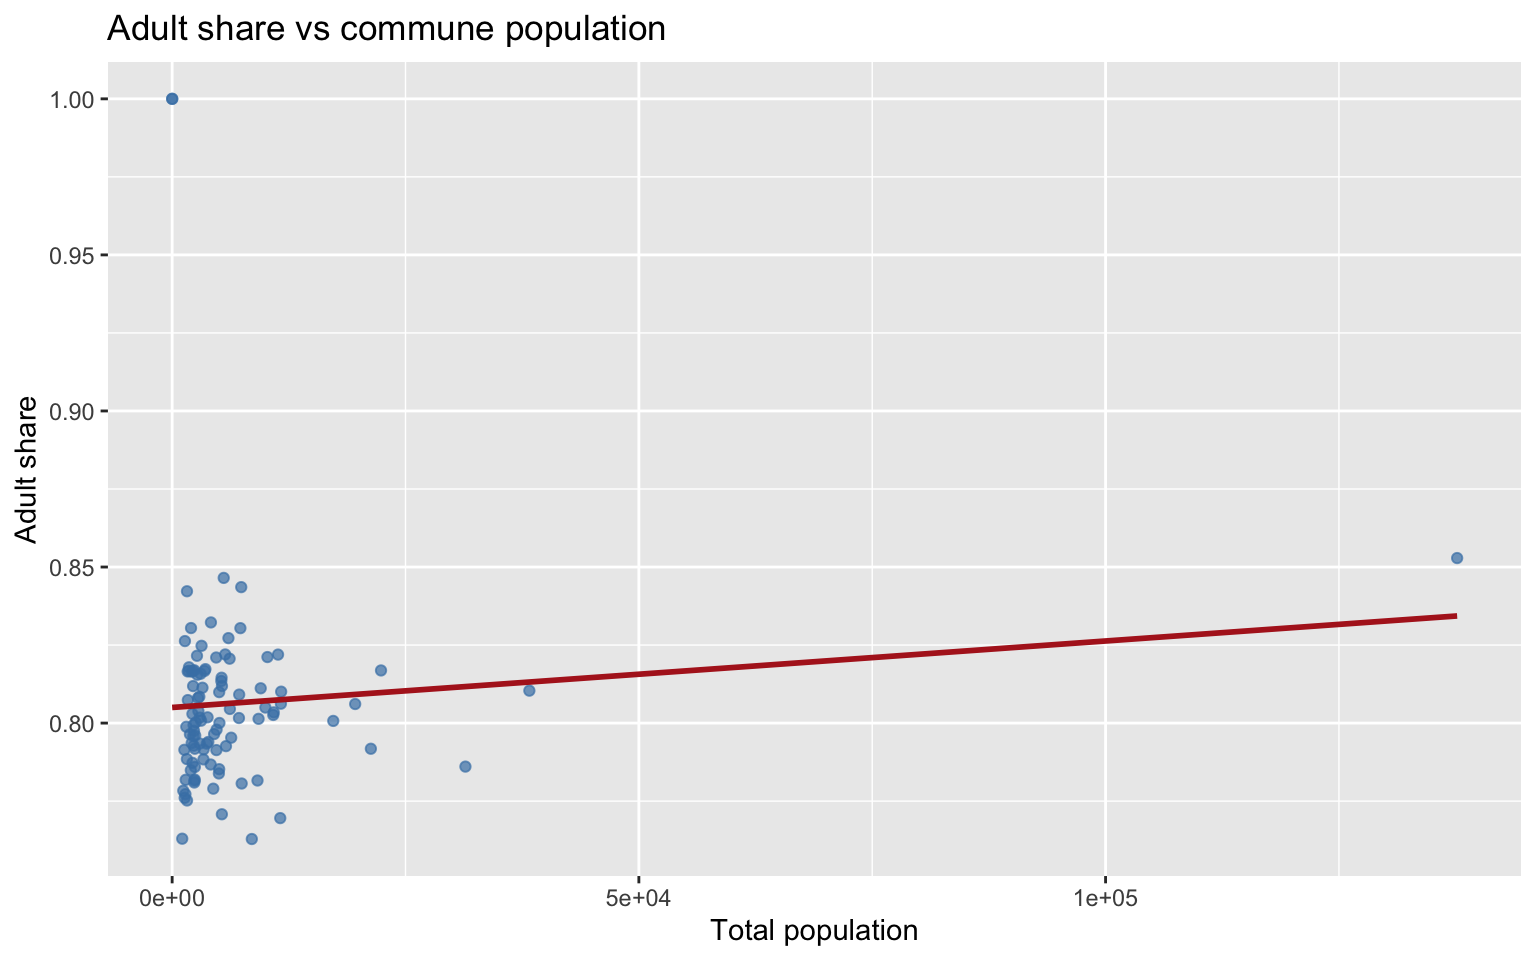
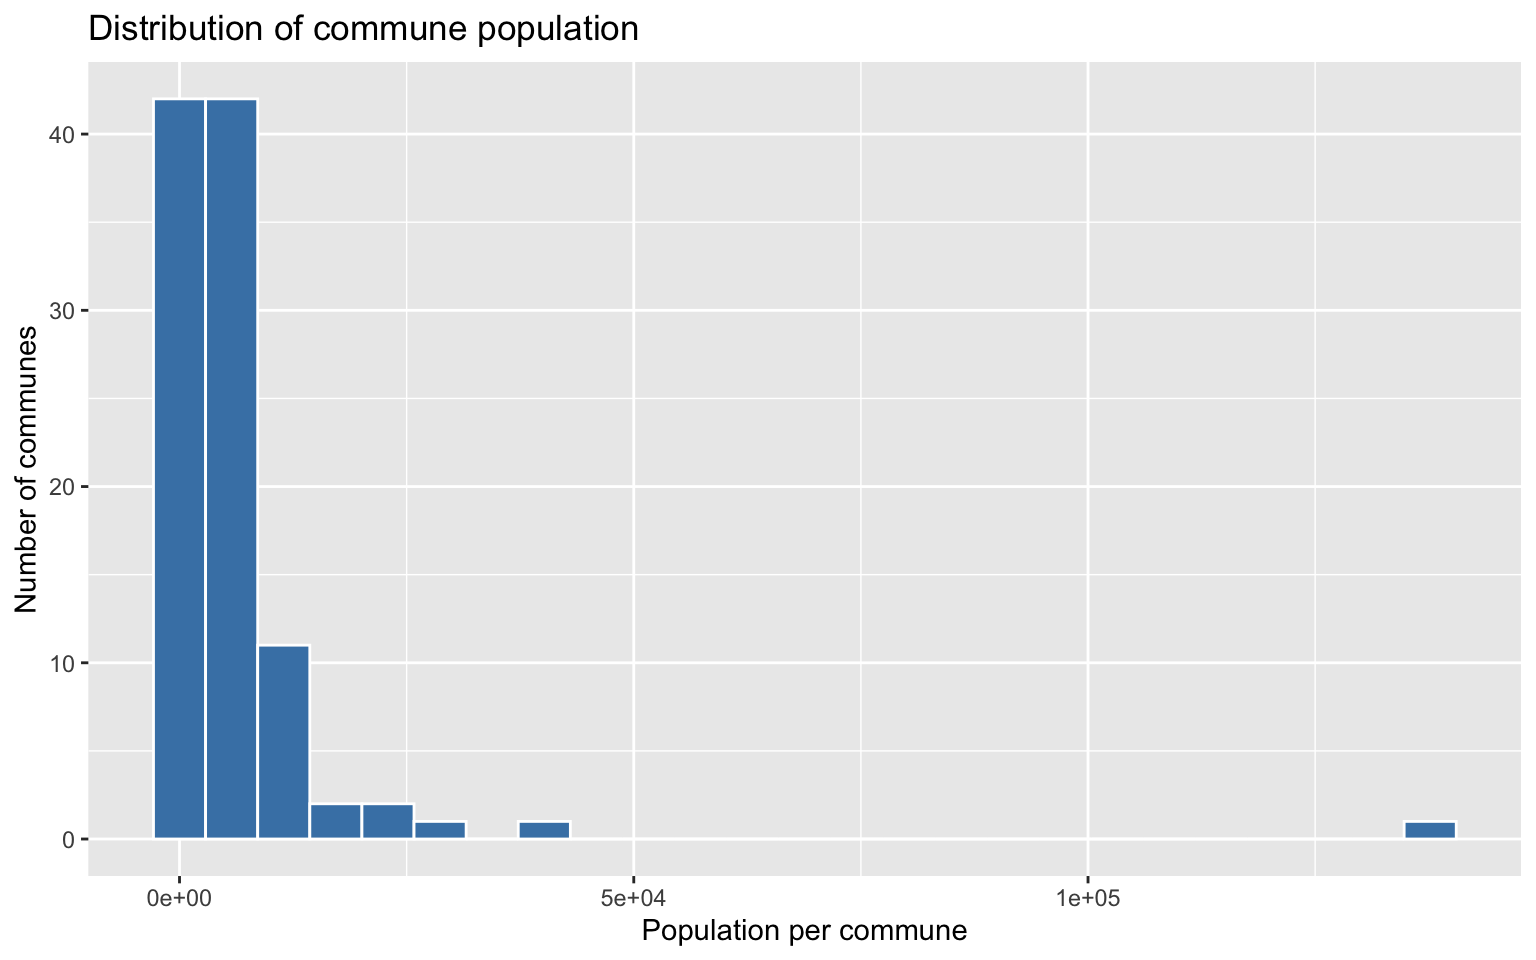
update

diff --git a/docs/sessions/session-02-solutions.html b/docs/sessions/session-02-solutions.html
@@ -173,6 +173,7 @@ pre > code.sourceCode > span > a:first-child::before { text-decoration: underlin
   <li><a href="#exercise-3" id="toc-exercise-3" class="nav-link" data-scroll-target="#exercise-3"><span class="header-section-number">1.3</span> Exercise 3</a></li>
   <li><a href="#exercise-4" id="toc-exercise-4" class="nav-link" data-scroll-target="#exercise-4"><span class="header-section-number">1.4</span> Exercise 4</a></li>
   <li><a href="#exercise-5" id="toc-exercise-5" class="nav-link" data-scroll-target="#exercise-5"><span class="header-section-number">1.5</span> Exercise 5</a></li>
+  <li><a href="#exercise-6" id="toc-exercise-6" class="nav-link" data-scroll-target="#exercise-6"><span class="header-section-number">1.6</span> Exercise 6</a></li>
   </ul></li>
   <li><a href="#gutenberg-tidytext-exercises-solutions" id="toc-gutenberg-tidytext-exercises-solutions" class="nav-link" data-scroll-target="#gutenberg-tidytext-exercises-solutions"><span class="header-section-number">2</span> Gutenberg + tidytext exercises — solutions</a>
   <ul class="collapse">
@@ -189,7 +190,7 @@ pre > code.sourceCode > span > a:first-child::before { text-decoration: underlin
   <li><a href="#exercise-3-2" id="toc-exercise-3-2" class="nav-link" data-scroll-target="#exercise-3-2"><span class="header-section-number">3.3</span> Exercise 3</a></li>
   <li><a href="#exercise-4-2" id="toc-exercise-4-2" class="nav-link" data-scroll-target="#exercise-4-2"><span class="header-section-number">3.4</span> Exercise 4</a></li>
   <li><a href="#exercise-5-2" id="toc-exercise-5-2" class="nav-link" data-scroll-target="#exercise-5-2"><span class="header-section-number">3.5</span> Exercise 5</a></li>
-  <li><a href="#exercise-6" id="toc-exercise-6" class="nav-link" data-scroll-target="#exercise-6"><span class="header-section-number">3.6</span> Exercise 6</a></li>
+  <li><a href="#exercise-6-1" id="toc-exercise-6-1" class="nav-link" data-scroll-target="#exercise-6-1"><span class="header-section-number">3.6</span> Exercise 6</a></li>
   </ul></li>
   </ul>
 </nav>
@@ -390,52 +391,56 @@ pre > code.sourceCode > span > a:first-child::before { text-decoration: underlin
 </section>
 <section id="exercise-4" class="level2" data-number="1.4">
 <h2 data-number="1.4" class="anchored" data-anchor-id="exercise-4"><span class="header-section-number">1.4</span> Exercise 4</h2>
-<p><strong>Task:</strong> Compute z-scores of <code>total_population</code> and list communes with <code>z_population &gt; 2</code>.</p>
+<p><strong>Task:</strong> Add <code>female_share</code> and report the top 10 communes.</p>
 <div class="cell">
-<div class="code-copy-outer-scaffold"><div class="sourceCode cell-code" id="cb19"><pre class="sourceCode r code-with-copy"><code class="sourceCode r"><span id="cb19-1"><a href="#cb19-1" aria-hidden="true" tabindex="-1"></a>pop_z <span class="ot">&lt;-</span> pop <span class="sc">|&gt;</span></span>
+<div class="code-copy-outer-scaffold"><div class="sourceCode cell-code" id="cb19"><pre class="sourceCode r code-with-copy"><code class="sourceCode r"><span id="cb19-1"><a href="#cb19-1" aria-hidden="true" tabindex="-1"></a>female_share_tbl <span class="ot">&lt;-</span> pop <span class="sc">|&gt;</span></span>
 <span id="cb19-2"><a href="#cb19-2" aria-hidden="true" tabindex="-1"></a>  <span class="fu">mutate</span>(</span>
 <span id="cb19-3"><a href="#cb19-3" aria-hidden="true" tabindex="-1"></a>    <span class="at">total_population =</span> FEMMES_MINEURES <span class="sc">+</span> HOMMES_MINEURS <span class="sc">+</span> FEMMES_MAJEURES <span class="sc">+</span> HOMMES_MAJEURS,</span>
-<span id="cb19-4"><a href="#cb19-4" aria-hidden="true" tabindex="-1"></a>    <span class="at">z_population =</span> <span class="fu">as.numeric</span>(<span class="fu">scale</span>(total_population))</span>
-<span id="cb19-5"><a href="#cb19-5" aria-hidden="true" tabindex="-1"></a>  )</span>
-<span id="cb19-6"><a href="#cb19-6" aria-hidden="true" tabindex="-1"></a></span>
-<span id="cb19-7"><a href="#cb19-7" aria-hidden="true" tabindex="-1"></a>pop_z <span class="sc">|&gt;</span></span>
-<span id="cb19-8"><a href="#cb19-8" aria-hidden="true" tabindex="-1"></a>  <span class="fu">filter</span>(z_population <span class="sc">&gt;</span> <span class="dv">2</span>) <span class="sc">|&gt;</span></span>
-<span id="cb19-9"><a href="#cb19-9" aria-hidden="true" tabindex="-1"></a>  <span class="fu">arrange</span>(<span class="fu">desc</span>(z_population)) <span class="sc">|&gt;</span></span>
-<span id="cb19-10"><a href="#cb19-10" aria-hidden="true" tabindex="-1"></a>  <span class="fu">select</span>(COMMUNE_NOM, total_population, z_population)</span></code></pre></div><button title="Copy to Clipboard" class="code-copy-button"><i class="bi"></i></button></div>
+<span id="cb19-4"><a href="#cb19-4" aria-hidden="true" tabindex="-1"></a>    <span class="at">female_total =</span> FEMMES_MINEURES <span class="sc">+</span> FEMMES_MAJEURES,</span>
+<span id="cb19-5"><a href="#cb19-5" aria-hidden="true" tabindex="-1"></a>    <span class="at">female_share =</span> female_total <span class="sc">/</span> total_population</span>
+<span id="cb19-6"><a href="#cb19-6" aria-hidden="true" tabindex="-1"></a>  )</span>
+<span id="cb19-7"><a href="#cb19-7" aria-hidden="true" tabindex="-1"></a></span>
+<span id="cb19-8"><a href="#cb19-8" aria-hidden="true" tabindex="-1"></a>female_share_tbl <span class="sc">|&gt;</span></span>
+<span id="cb19-9"><a href="#cb19-9" aria-hidden="true" tabindex="-1"></a>  <span class="fu">arrange</span>(<span class="fu">desc</span>(female_share)) <span class="sc">|&gt;</span></span>
+<span id="cb19-10"><a href="#cb19-10" aria-hidden="true" tabindex="-1"></a>  <span class="fu">select</span>(COMMUNE_NOM, total_population, female_share) <span class="sc">|&gt;</span></span>
+<span id="cb19-11"><a href="#cb19-11" aria-hidden="true" tabindex="-1"></a>  <span class="fu">slice_head</span>(<span class="at">n =</span> <span class="dv">10</span>)</span></code></pre></div><button title="Copy to Clipboard" class="code-copy-button"><i class="bi"></i></button></div>
 <div class="cell-output cell-output-stdout">
-<pre><code># A tibble: 2 × 3
-  COMMUNE_NOM      total_population z_population
-  &lt;chr&gt;                       &lt;dbl&gt;        &lt;dbl&gt;
-1 Luxembourg                 137663         9.11
-2 Esch-sur-Alzette            38269         2.19</code></pre>
+<pre><code># A tibble: 10 × 3
+   COMMUNE_NOM       total_population female_share
+   &lt;chr&gt;                        &lt;dbl&gt;        &lt;dbl&gt;
+ 1 Saeul                         1080        0.519
+ 2 Lenningen                     2114        0.518
+ 3 Mondorf-les-Bains             5525        0.516
+ 4 Steinsel                      6185        0.514
+ 5 Strassen                     10831        0.514
+ 6 Niederanven                   7158        0.513
+ 7 Nommern                       1516        0.513
+ 8 Redange/Attert                3150        0.513
+ 9 Reckange-sur-Mess             2956        0.513
+10 Walferdange                   9258        0.512</code></pre>
 </div>
 </div>
 <p>Why this works:</p>
 <ul>
-<li><code>scale()</code> standardizes values to mean 0 and standard deviation 1.</li>
-<li><code>z_population &gt; 2</code> identifies unusually large communes relative to the full distribution.</li>
+<li><code>female_share</code> is the share of female population in each commune.</li>
+<li>Sorting descending and slicing head returns the requested top 10 rows.</li>
 </ul>
 </section>
 <section id="exercise-5" class="level2" data-number="1.5">
 <h2 data-number="1.5" class="anchored" data-anchor-id="exercise-5"><span class="header-section-number">1.5</span> Exercise 5</h2>
-<p><strong>Task:</strong> Plot <code>total_population</code> vs <code>adult_share</code> and describe the pattern.</p>
+<p><strong>Task:</strong> Create a histogram of <code>total_population</code> and describe the shape.</p>
 <div class="cell">
 <div class="code-copy-outer-scaffold"><div class="sourceCode cell-code" id="cb21"><pre class="sourceCode r code-with-copy"><code class="sourceCode r"><span id="cb21-1"><a href="#cb21-1" aria-hidden="true" tabindex="-1"></a>pop <span class="sc">|&gt;</span></span>
 <span id="cb21-2"><a href="#cb21-2" aria-hidden="true" tabindex="-1"></a>  <span class="fu">mutate</span>(</span>
-<span id="cb21-3"><a href="#cb21-3" aria-hidden="true" tabindex="-1"></a>    <span class="at">total_population =</span> FEMMES_MINEURES <span class="sc">+</span> HOMMES_MINEURS <span class="sc">+</span> FEMMES_MAJEURES <span class="sc">+</span> HOMMES_MAJEURS,</span>
-<span id="cb21-4"><a href="#cb21-4" aria-hidden="true" tabindex="-1"></a>    <span class="at">adult_share =</span> (FEMMES_MAJEURES <span class="sc">+</span> HOMMES_MAJEURS) <span class="sc">/</span> total_population</span>
-<span id="cb21-5"><a href="#cb21-5" aria-hidden="true" tabindex="-1"></a>  ) <span class="sc">|&gt;</span></span>
-<span id="cb21-6"><a href="#cb21-6" aria-hidden="true" tabindex="-1"></a>  <span class="fu">ggplot</span>(<span class="fu">aes</span>(<span class="at">x =</span> total_population, <span class="at">y =</span> adult_share)) <span class="sc">+</span></span>
-<span id="cb21-7"><a href="#cb21-7" aria-hidden="true" tabindex="-1"></a>  <span class="fu">geom_point</span>(<span class="at">alpha =</span> <span class="fl">0.7</span>, <span class="at">color =</span> <span class="st">"steelblue"</span>) <span class="sc">+</span></span>
-<span id="cb21-8"><a href="#cb21-8" aria-hidden="true" tabindex="-1"></a>  <span class="fu">geom_smooth</span>(<span class="at">method =</span> <span class="st">"lm"</span>, <span class="at">se =</span> <span class="cn">FALSE</span>, <span class="at">color =</span> <span class="st">"firebrick"</span>) <span class="sc">+</span></span>
-<span id="cb21-9"><a href="#cb21-9" aria-hidden="true" tabindex="-1"></a>  <span class="fu">labs</span>(</span>
-<span id="cb21-10"><a href="#cb21-10" aria-hidden="true" tabindex="-1"></a>    <span class="at">title =</span> <span class="st">"Adult share vs commune population"</span>,</span>
-<span id="cb21-11"><a href="#cb21-11" aria-hidden="true" tabindex="-1"></a>    <span class="at">x =</span> <span class="st">"Total population"</span>,</span>
-<span id="cb21-12"><a href="#cb21-12" aria-hidden="true" tabindex="-1"></a>    <span class="at">y =</span> <span class="st">"Adult share"</span></span>
-<span id="cb21-13"><a href="#cb21-13" aria-hidden="true" tabindex="-1"></a>  )</span></code></pre></div><button title="Copy to Clipboard" class="code-copy-button"><i class="bi"></i></button></div>
-<div class="cell-output cell-output-stderr">
-<pre><code>`geom_smooth()` using formula = 'y ~ x'</code></pre>
-</div>
+<span id="cb21-3"><a href="#cb21-3" aria-hidden="true" tabindex="-1"></a>    <span class="at">total_population =</span> FEMMES_MINEURES <span class="sc">+</span> HOMMES_MINEURS <span class="sc">+</span> FEMMES_MAJEURES <span class="sc">+</span> HOMMES_MAJEURS</span>
+<span id="cb21-4"><a href="#cb21-4" aria-hidden="true" tabindex="-1"></a>  ) <span class="sc">|&gt;</span></span>
+<span id="cb21-5"><a href="#cb21-5" aria-hidden="true" tabindex="-1"></a>  <span class="fu">ggplot</span>(<span class="fu">aes</span>(<span class="at">x =</span> total_population)) <span class="sc">+</span></span>
+<span id="cb21-6"><a href="#cb21-6" aria-hidden="true" tabindex="-1"></a>  <span class="fu">geom_histogram</span>(<span class="at">bins =</span> <span class="dv">25</span>, <span class="at">fill =</span> <span class="st">"steelblue"</span>, <span class="at">color =</span> <span class="st">"white"</span>) <span class="sc">+</span></span>
+<span id="cb21-7"><a href="#cb21-7" aria-hidden="true" tabindex="-1"></a>  <span class="fu">labs</span>(</span>
+<span id="cb21-8"><a href="#cb21-8" aria-hidden="true" tabindex="-1"></a>    <span class="at">title =</span> <span class="st">"Distribution of commune population"</span>,</span>
+<span id="cb21-9"><a href="#cb21-9" aria-hidden="true" tabindex="-1"></a>    <span class="at">x =</span> <span class="st">"Population per commune"</span>,</span>
+<span id="cb21-10"><a href="#cb21-10" aria-hidden="true" tabindex="-1"></a>    <span class="at">y =</span> <span class="st">"Number of communes"</span></span>
+<span id="cb21-11"><a href="#cb21-11" aria-hidden="true" tabindex="-1"></a>  )</span></code></pre></div><button title="Copy to Clipboard" class="code-copy-button"><i class="bi"></i></button></div>
 <div class="cell-output-display">
 <div>
 <figure class="figure">
@@ -446,8 +451,26 @@ pre > code.sourceCode > span > a:first-child::before { text-decoration: underlin
 </div>
 <p>Interpretation note:</p>
 <ul>
-<li>Use the regression line as a rough trend indicator.</li>
-<li>In many datasets, adult share varies only moderately across commune size.</li>
+<li>The histogram is typically right-skewed.</li>
+<li>Most communes have smaller populations, with a few much larger communes.</li>
+</ul>
+</section>
+<section id="exercise-6" class="level2" data-number="1.6">
+<h2 data-number="1.6" class="anchored" data-anchor-id="exercise-6"><span class="header-section-number">1.6</span> Exercise 6</h2>
+<p><strong>Task:</strong> Export the tibble <code>pop_totals</code> to a CSV file.</p>
+<div class="cell">
+<div class="code-copy-outer-scaffold"><div class="sourceCode cell-code" id="cb22"><pre class="sourceCode r code-with-copy"><code class="sourceCode r"><span id="cb22-1"><a href="#cb22-1" aria-hidden="true" tabindex="-1"></a>pop_totals <span class="ot">&lt;-</span> pop <span class="sc">|&gt;</span></span>
+<span id="cb22-2"><a href="#cb22-2" aria-hidden="true" tabindex="-1"></a>  <span class="fu">mutate</span>(</span>
+<span id="cb22-3"><a href="#cb22-3" aria-hidden="true" tabindex="-1"></a>    <span class="at">total_population =</span> FEMMES_MINEURES <span class="sc">+</span> HOMMES_MINEURS <span class="sc">+</span> FEMMES_MAJEURES <span class="sc">+</span> HOMMES_MAJEURS,</span>
+<span id="cb22-4"><a href="#cb22-4" aria-hidden="true" tabindex="-1"></a>    <span class="at">adult_share =</span> (FEMMES_MAJEURES <span class="sc">+</span> HOMMES_MAJEURS) <span class="sc">/</span> total_population</span>
+<span id="cb22-5"><a href="#cb22-5" aria-hidden="true" tabindex="-1"></a>  )</span>
+<span id="cb22-6"><a href="#cb22-6" aria-hidden="true" tabindex="-1"></a></span>
+<span id="cb22-7"><a href="#cb22-7" aria-hidden="true" tabindex="-1"></a><span class="fu">write.csv</span>(pop_totals, <span class="st">"pop_totals.csv"</span>, <span class="at">row.names =</span> <span class="cn">FALSE</span>)</span></code></pre></div><button title="Copy to Clipboard" class="code-copy-button"><i class="bi"></i></button></div>
+</div>
+<p>Why this works:</p>
+<ul>
+<li><code>write.csv()</code> writes the tibble to disk in comma-separated format.</li>
+<li><code>row.names = FALSE</code> avoids adding an extra index column.</li>
 </ul>
 </section>
 </section>
@@ -582,7 +605,7 @@ pre > code.sourceCode > span > a:first-child::before { text-decoration: underlin
    &lt;chr&gt;            &lt;chr&gt;        &lt;int&gt;   &lt;dbl&gt;
  1 The Time Machine traveller       57 0.00556
  2 The Time Machine morlocks        48 0.00468
- 3 The Time Machine weena           46 0.00448
+ 3 The Time Machine weena           46 0.00449
  4 The Time Machine machine         88 0.00317
  5 The Time Machine sphinx          24 0.00234
  6 The Time Machine psychologist    23 0.00224
@@ -663,7 +686,7 @@ pre > code.sourceCode > span > a:first-child::before { text-decoration: underlin
 <pre><code># A tibble: 3 × 4
   title                       total_tokens unique_tokens lexical_diversity
   &lt;chr&gt;                              &lt;int&gt;         &lt;int&gt;             &lt;dbl&gt;
-1 The Time Machine                   11268          4172             0.370
+1 The Time Machine                   11267          4171             0.370
 2 The island of Doctor Moreau        15629          4897             0.313
 3 The War of the Worlds              22868          6352             0.278</code></pre>
 </div>
@@ -875,8 +898,8 @@ pre > code.sourceCode > span > a:first-child::before { text-decoration: underlin
 <li>This gives a simple coverage metric for entries that are useful in bilingual phonological work.</li>
 </ul>
 </section>
-<section id="exercise-6" class="level2" data-number="3.6">
-<h2 data-number="3.6" class="anchored" data-anchor-id="exercise-6"><span class="header-section-number">3.6</span> Exercise 6</h2>
+<section id="exercise-6-1" class="level2" data-number="3.6">
+<h2 data-number="3.6" class="anchored" data-anchor-id="exercise-6-1"><span class="header-section-number">3.6</span> Exercise 6</h2>
 <p><strong>Task:</strong> Extract <code>partofspeech</code> with <code>lemma</code> and list the 20 most frequent labels.</p>
 <div class="cell">
 <div class="code-copy-outer-scaffold"><div class="sourceCode cell-code" id="cb48"><pre class="sourceCode r code-with-copy"><code class="sourceCode r"><span id="cb48-1"><a href="#cb48-1" aria-hidden="true" tabindex="-1"></a>xml_pos <span class="ot">&lt;-</span> entry_sample <span class="sc">|&gt;</span></span>
